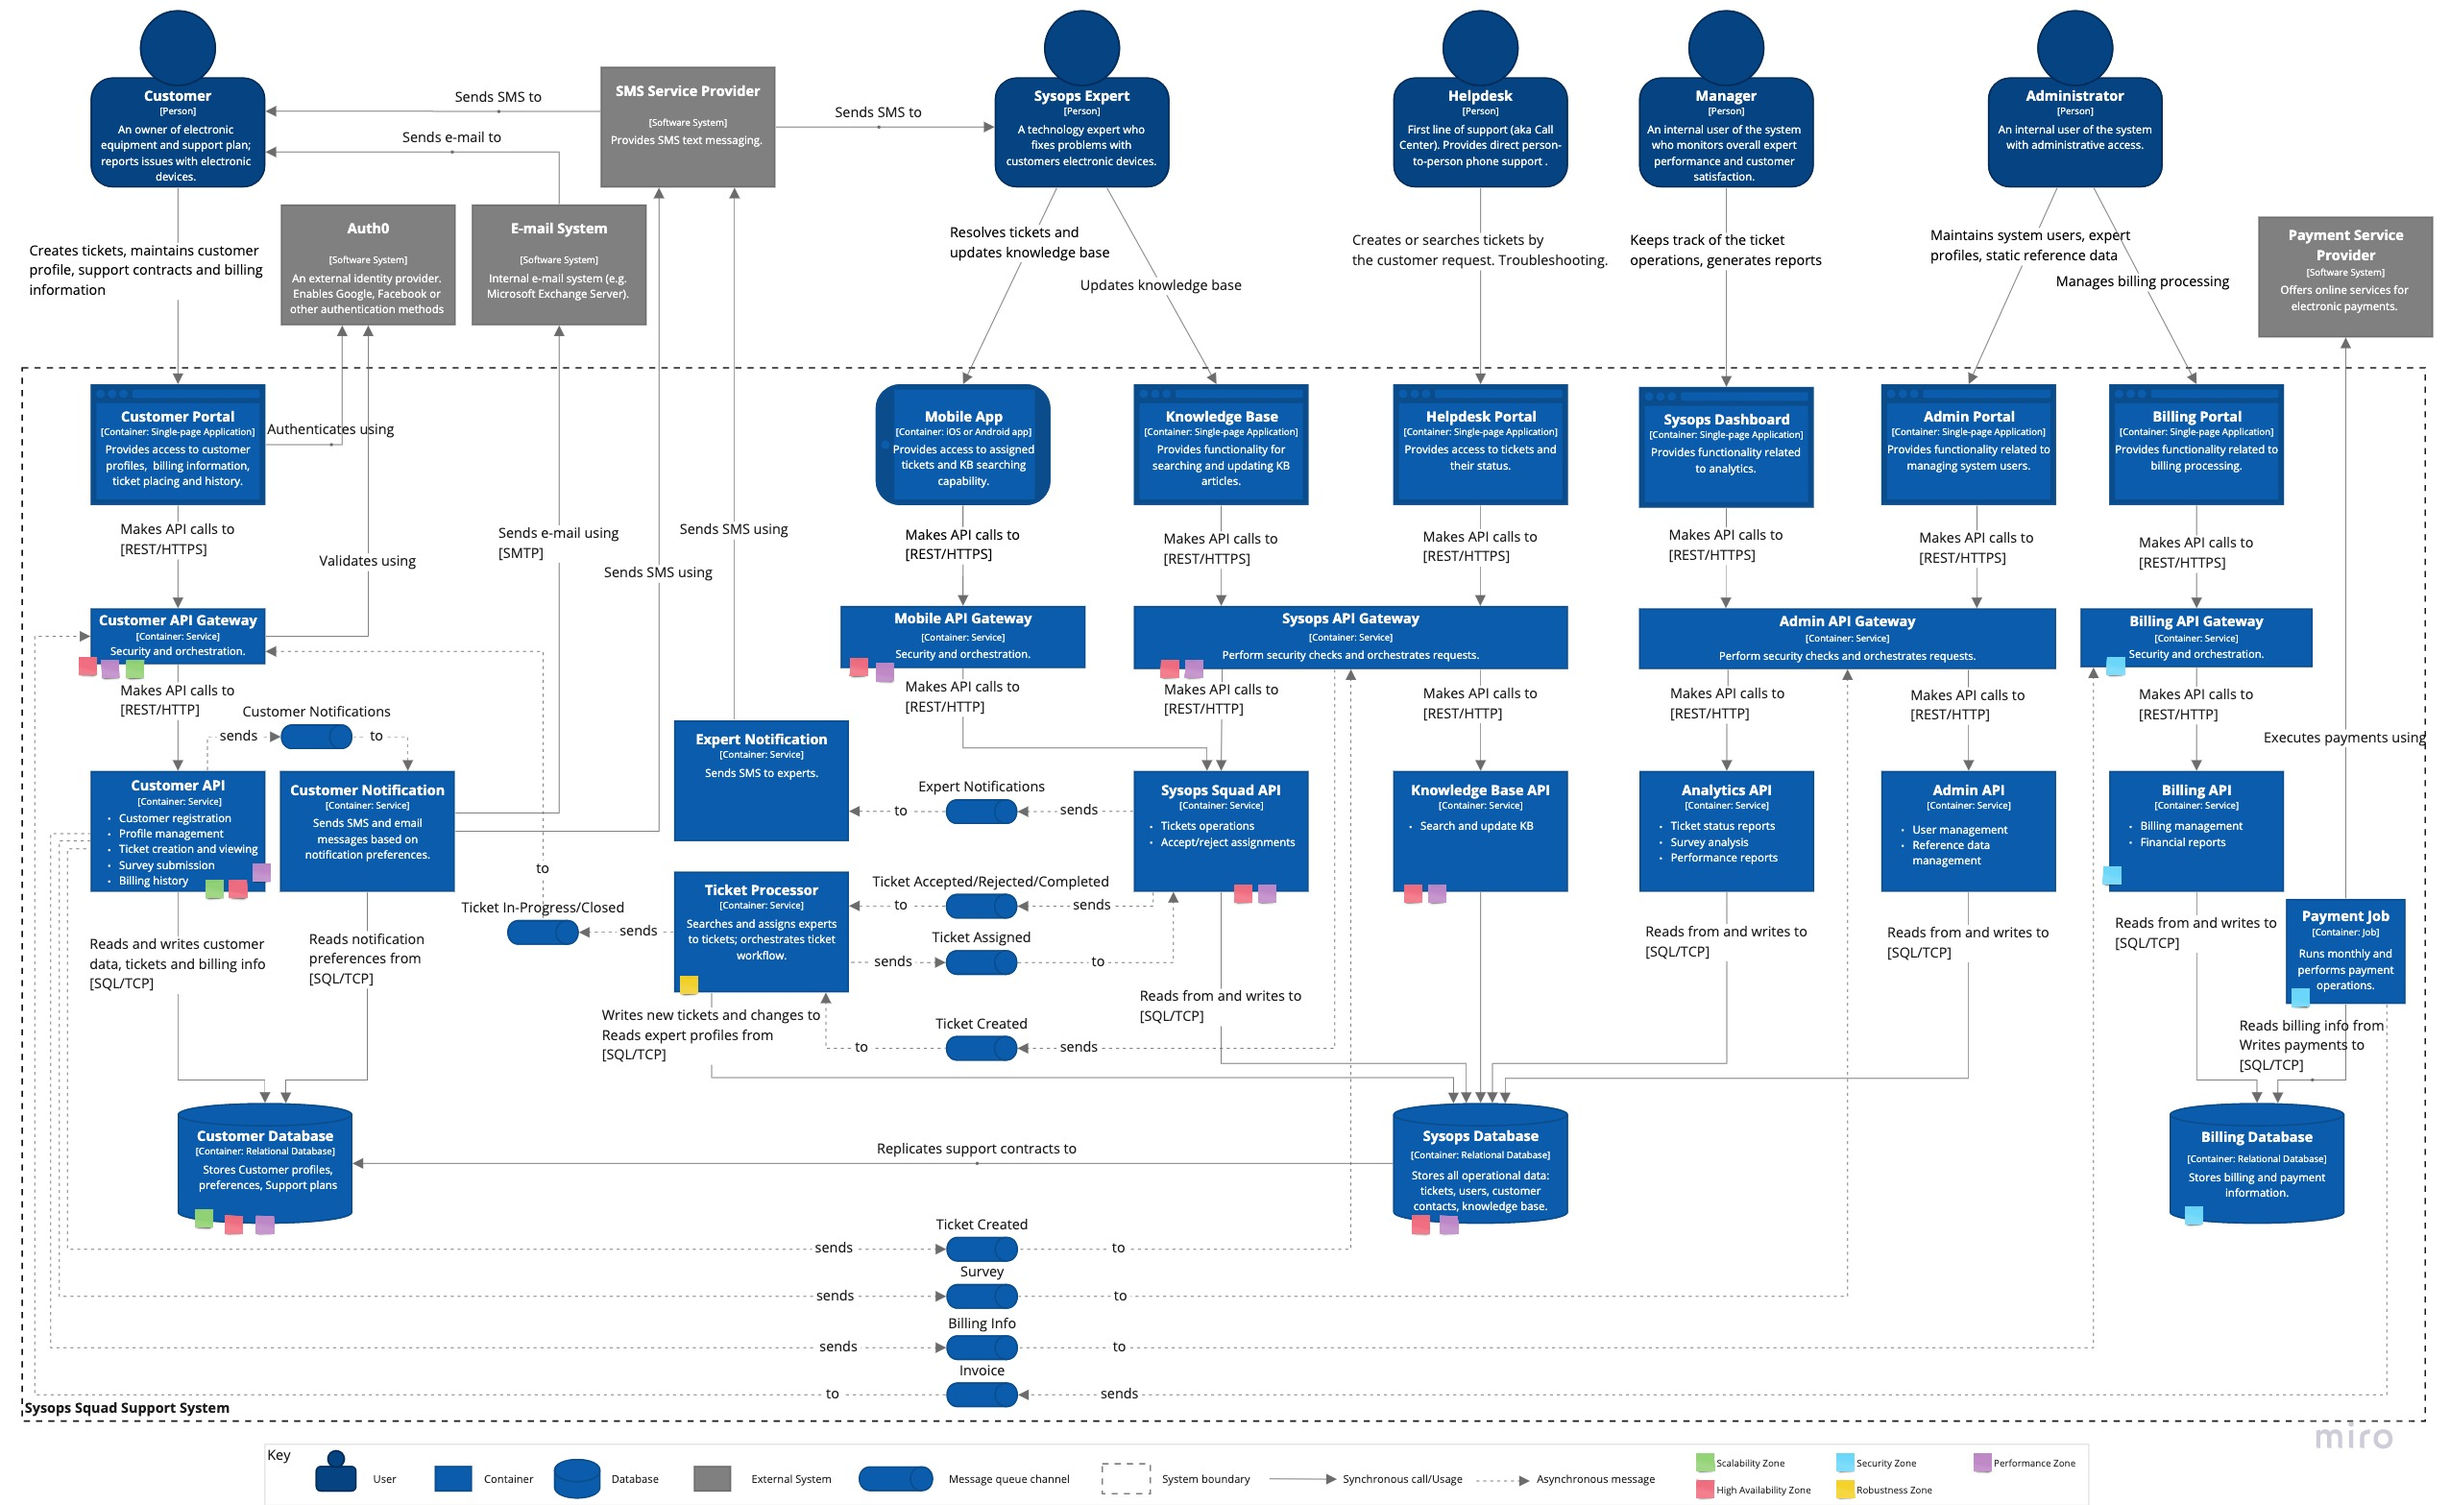
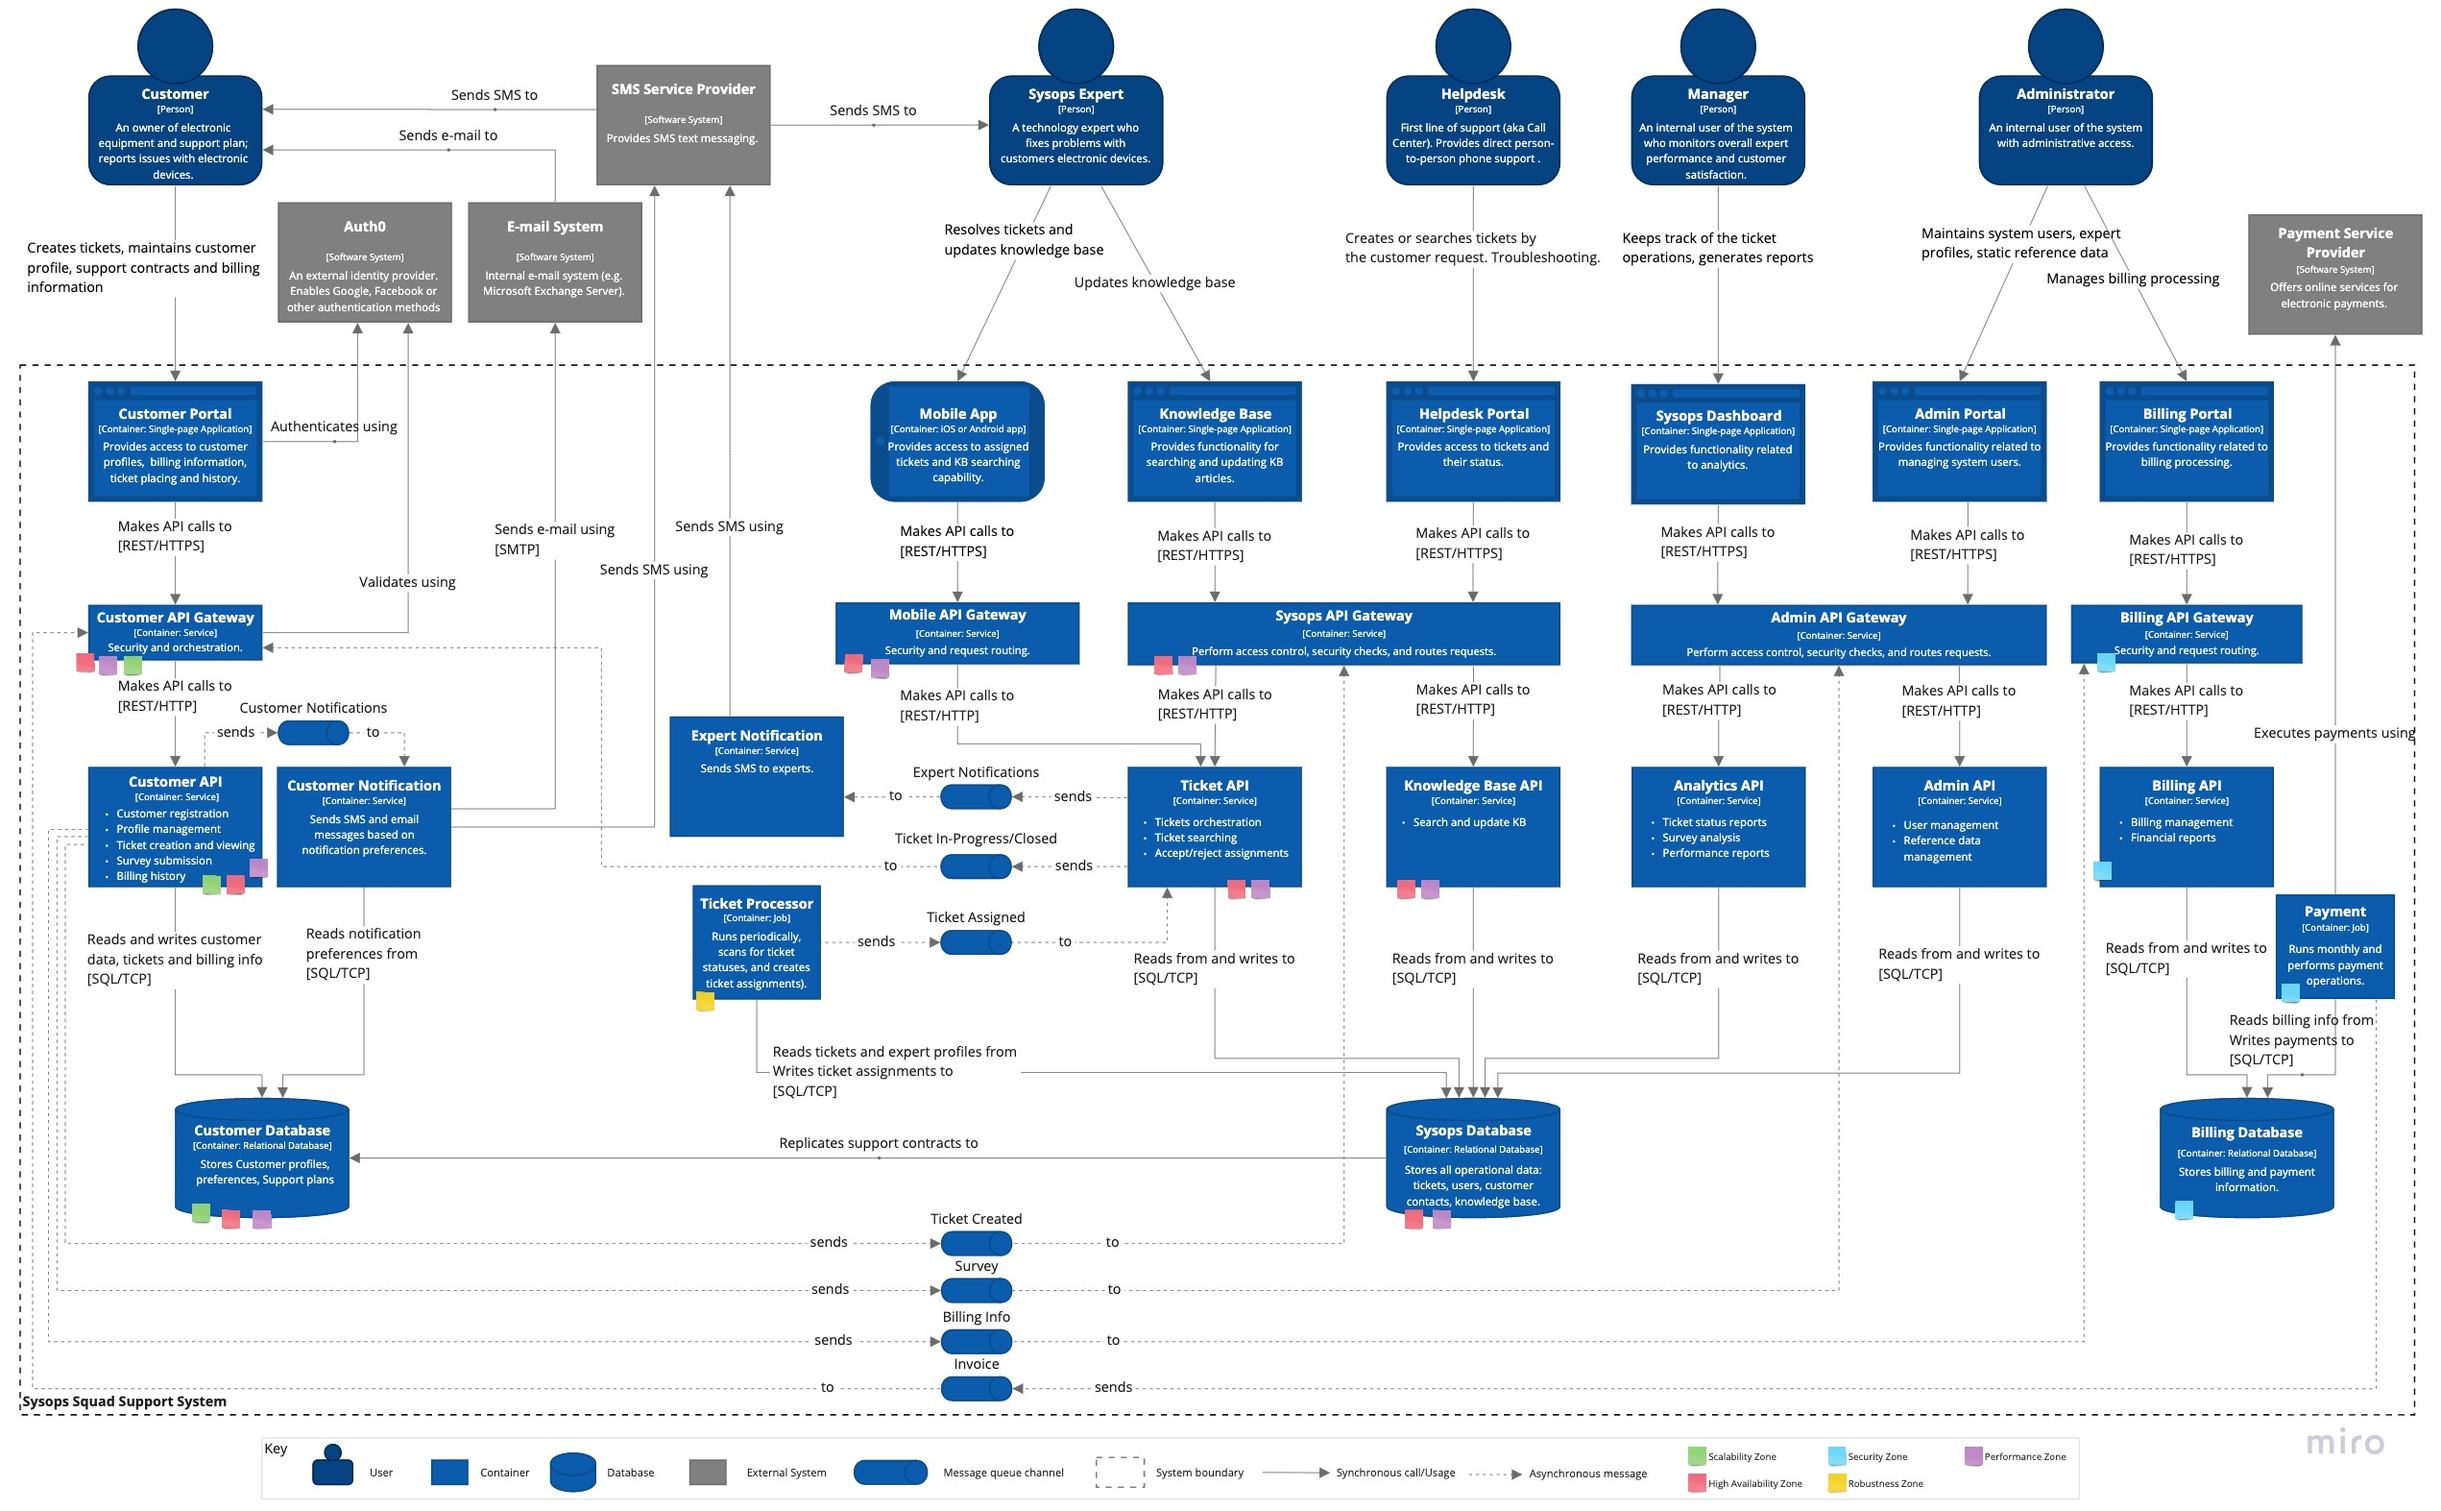
Change ADR-3: make Ticket Processor a batch job instead of a service

diff --git a/README.md b/README.md
@@ -7,7 +7,9 @@
 ## Contents
 
 - [Welcome](#welcome)  
+    - [About the name](#about-the-name)
 - [Business Case](#business-case)  
+    - [Business Drivers](#business-drivers)
 - [System Requirements](#system-requirements)  
     - [Functional Requirements](#functional-requirements)
     - [Architecture Characteristics Requirements](#architecture-characteristics-requirements)
@@ -197,65 +199,56 @@ The architectural style used here as the bases is Service-based architecture (se
 This section explains some key use cases to demonstrate how corresponding workflows pass through containers.
 
 #### UC-3: Ticket submission
-The following diagram illustrates the ticket registration by the customer.
-
-**Note** that Gateway APIs are intentionally omitted to reduce clutter. Those are simple pass-through services that perform operational tasks.
+The following diagram illustrates the process of a ticket registration by the customer.
 
 ![UC-3: Ticket submission](images/ticket-submission.jpg "Ticket Submission")
 
-#### UC-3: Ticket Created event
+Important thing to note is that the requests succeeds after the ticket is saved in the customer database and the corresponding event is fired for the ticket processing area. This way the customer will be able to see the new ticket immediately after the page refresh and will not have to wait on any further actions on the ticket.
+
+#### UC-3: Ticket assignment
 The diagram below explains how the system processes a new ticket and assigns it an expert.
 
-**Note** that Gateway APIs are intentionally omitted to reduce clutter. Those are simple pass-through services that perform operational tasks.
+![UC-3: Ticket Created](images/ticket-assignment.jpg)
 
-![UC-3: Ticket Created](images/ticket-created.jpg)
+Since Ticket Process is a job that runs periodically, tickets that cannot be assigned at the given moment will never be lost, they we bill processed next time the job will run.
 
-If an expert cannot be found at the given moment, Ticket Processor will have to work on that ticket once again later - maybe some expert will be freed from the job, or a new expert will appear in the system. Depending on the technology chosen, "delay message" can be implemented in different ways. This can be a native message broker's feature that enables message rescheduling (both RabbitMQ and ActiveMQ support that by the way).
+Also, notice that an assignment is a separate entity. This way we can store a history of assignments.
 
-Or, if the message broker does not support that or it is tricky to use, the new event can be rescheduled by using a scheduler, like cron. Anyway, the idea here is that the ticket cannot be forgotten and Ticket Processor has to work on it until an appropriate expert will be found. A manager will pay attention to tickets that stay pending too long and can take some manual action to help the situation.
-
-#### UC-3: Ticket Assigned
+#### UC-3: Ticket acceptance
 This diagram continues the ticket workflow and shows how the Ticket Assigned event is processed by the Sysops Expert user.
 
-**Note** that Gateway APIs are intentionally omitted to reduce clutter. Those are simple pass-through services that perform operational tasks.
+![UC-3: Ticket Assigned](images/ticket-acceptance.jpg)
 
-![UC-3: Ticket Assigned](images/ticket-assigned.jpg)
+The experts operation succeeds as soon as the ticket status is saved in the database. And in case of acceptance the corresponding even is fired to the customer area.
 
-#### UC-3: Ticket Accepted/Rejected
-This diagram illustrates what happens when the Sysops Expert either accepts or rejects the ticket.
-
-**Note** that Gateway APIs are intentionally omitted to reduce clutter. Those are simple pass-through services that perform operational tasks.
-
-![UC-3: Ticket Accepted/Rejected](images/ticket-accepted-rejected.jpg)
-
-#### UC-3: Ticket In-Progress
+#### UC-3: Ticket in-progress
 This diagram demonstrates how the customer is notified when the Sysops Expert accepted the ticket.
-
-**Note** that Gateway APIs are intentionally omitted to reduce clutter. Those are simple pass-through services that perform operational tasks.
 
 ![UC-3: Ticket In-Progress](images/ticket-inprogress.jpg)
 
-#### UC-3: Ticket Completed
-This diagram explains the process when the Sysops Expert solved the problem and marked the ticket as completed.
+Important to notice that the ticket is saved in the customer database prior to the notification event so that the customer will see the actual ticket status upon the notification receive.
 
-**Note** that Gateway APIs are intentionally omitted to reduce clutter. Those are simple pass-through services that perform operational tasks.
+#### UC-3: Ticket completion
+This diagram explains the process when the Sysops Expert solved the problem and marks the ticket as completed.
 
-![UC-3: Ticket Completed](images/ticket-completed.jpg)
+![UC-3: Ticket Completed](images/ticket-completion.jpg)
 
 #### UC-3: Ticket Resolved
 This diagram illustrates how the customer receives a notification about the ticket resolution and link to the survey form.
 
-**Note** that Gateway APIs are intentionally omitted to reduce clutter. Those are simple pass-through services that perform operational tasks.
-
 ![UC-3: Ticket Resolved](images/ticket-resolved.jpg)
+
+First, the ticket status has to be updated in the customer database, so that upon receiving any notifications the customer will see the actual ticket status on the Customer Portal.
 
 #### UC-4: Survey Submission
 
 And finally the last step in the ticket resolution flow is survey submission by the customer.
 
-**Note** that Gateway APIs are intentionally omitted to reduce clutter. Those are simple pass-through services that perform operational tasks.
-
 ![UC-4: Survey Submission](images/survey-submission.jpg)
+
+From the customer perspective this is a fire-and-forget even so the operation succeeds as soon as the "Submit" button is clicked.
+
+Analytics API can perform some preliminary processing of the survey if necessary or simply store it in the database for the reporting.
 
 #### UC-7: Monthly billing
 The diagram illustrates the monthly billing workflow.
@@ -273,6 +266,10 @@ The deployment strategy here is cloud-agnostic, assuming you can use any cloud p
 
 ## Migration Plan
 TBD
+
+1. Extract Customer API
+    1. Move all customer related functionality into a separate service.
+    2. Extract customer data
 
 ## Risk Analysis
 TBD

diff --git a/ADR/ADR-3-search-expert.md b/ADR/ADR-3-search-expert.md
@@ -1,18 +1,25 @@
 ## Title: 
-ADR-3: Extract ticket processing into a separate service.
+ADR-3: Extract ticket assignment into a separate batch processing job.
 
 ## Status: 
 Proposed
 
 ## Context: 
-- Wrong experts are assigned.
-- Often times the wrong consultant shows up to fix something they know nothing about.
+The ticket assignment part seems to be a problematic one. Often times the wrong expert shows up to fix something they know nothing about. Sometimes, tickets never get assigned to an expert and lost forever. We need to come up with a robust solution to this problem.
 
 ## Decision: 
- - Since this is area which is often reported to have problems, we want to isolate it from the rest of the system to reduce coupling and simplify testability and deloyability of this part.
- - Customer don't normally expect that their tickets are taken into processing right away, so robustness is over performance here. Hence we can keep a single instance of the service to ensure consistency.
- - This component might be a subject to frequent changes due to the assignment rules and optimization.
+
+Since ticket assignment is a subject to frequent changes, it seems a good idea to make it a separate component thus improve modularity. 
+
+One option is to make it a standalone service that reacts to ticket events and processes each new ticket separately. But this will imply significant limitations on the processing capabilities. What about ticket priorities? Tickets with a higher priority may need to be assigned first postponing lower priority tickets. This can barely be achieved when processing one ticket at a time.
+
+A better solution to this is making it a batch processing job that runs periodically (hourly for example, or even once a day). Whenever a customer submits a ticket, they don't expect that an expert be waiting behind the door in a next minute. Even urgent situations can way hours, less urgent days. Robustness is over performance here.
+
+Making it a batch job will also make the component much simpler to test and develop ridding of the servicing burden, like maintaining an API.
+
+The job will simply start on schedule (as a cron job for example), scan for ticket statuses and create ticket assignments. It will not accept any incoming requests or events, so it's only responsibility is assigning experts to tickets.
+
+It will also improve robustness, because no problem to re-run the job in case of a problem.
 
 ## Consequences: 
-Needs access to the expert profile information (could be a separate DB if micro service is chosen).
-
+There is a risk that the job will not start due to a configuration issue or a bug, thus it will require additional monitoring.

diff --git a/ADR/ADR-12-gateways.md b/ADR/ADR-12-gateways.md
@@ -14,7 +14,9 @@ So what gateways do we need here? The first candidate is the billing silo, since
 Admin API operates with admin permissions so any intrusion here will make a high impact on the whole business.  
 Customer API and Sysops API need different levels of availability and scalability here so this is another Gateway. And Mobile application may need more efficient data responses than web applications.
 
-An important thing to notice that API Gateways should contain no domain logic. Remember, we are not building an ESB here. API Gateways should care exceptionally about security checks, operational concerns here, and simple message routing based the message type. For that reason we leave requests from gateways to the corresponding domains services synchronous making gateways simple pass-through interfaces.
+An important thing to notice that API Gateways should contain no domain logic. Remember, we are not building an ESB here. API Gateways should care exceptionally about access control, security checks,and simple message routing based the message type. We leave requests from gateways to the corresponding domains services synchronous making gateways simple pass-through interfaces, because if a customer changes something in the profile and refreshes the page, the change should be immediately reflected.
+
+There is a variety of choices on the market for a gateway implementation, open-source, proprietary and cloud-hosted.
 
 ## Consequences: 
 Again, this adds complexity, because the number of services increases. We should pay careful attention while developing API Gateways to avoid performance bottlenecks and a single point of failure, so they need to be properly load-balanced.

diff --git a/ADR/ADR-4-extract-billing-service.md b/ADR/ADR-4-extract-billing-service.md
@@ -1,0 +1,11 @@
+## Title: 
+ADR-4: Extract billing service and data.
+
+## Status: 
+**Proposed
+
+## Context: 
+
+## Decision: 
+  
+## Consequences: 
